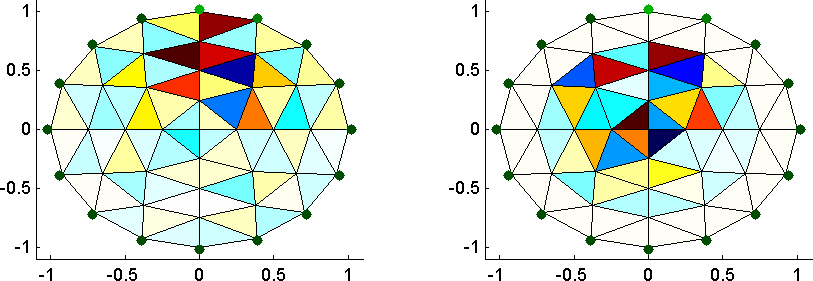
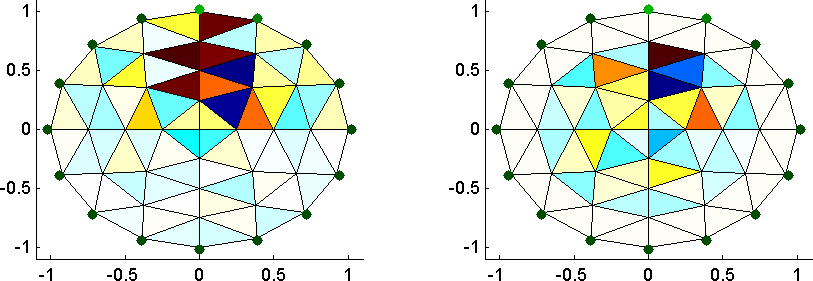
change hyperparam
git-svn-id: svn://svn.code.sf.net/p/eidors3d/code/trunk@1192 82006732-fb7e-4a22-9f28-86a212cce563

Changed region(s): [[0.0923, 0.0285, 0.4305, 0.8541], [0.6458, 0.1423, 0.9533, 0.7402]]

diff --git a/htdocs/tutorial/dual_model/dual_model02.m b/htdocs/tutorial/dual_model/dual_model02.m
@@ -1,14 +1,14 @@
-% Simulate data $Id: dual_model02.m,v 1.2 2008-03-16 01:33:10 aadler Exp $
+% Simulate data $Id: dual_model02.m,v 1.3 2008-03-16 10:35:23 aadler Exp $
 
 % create base model
 mdl_base=mk_common_model('a2c0',16);
+mdl_base.RtR_prior = @noser_image_prior;
+mdl_base.hyperparameter.value = 3e-2;
+
 elems= mdl_base.fwd_model.elems;
 nodes= mdl_base.fwd_model.nodes;
 e= size(elems,1);
 
-% Use NOSER prior
-mdl_base.RtR_prior = @noser_image_prior;
-mdl_base.hyperparameter.value = 1e-2;
 
 for model = 1:2
    if model==1
